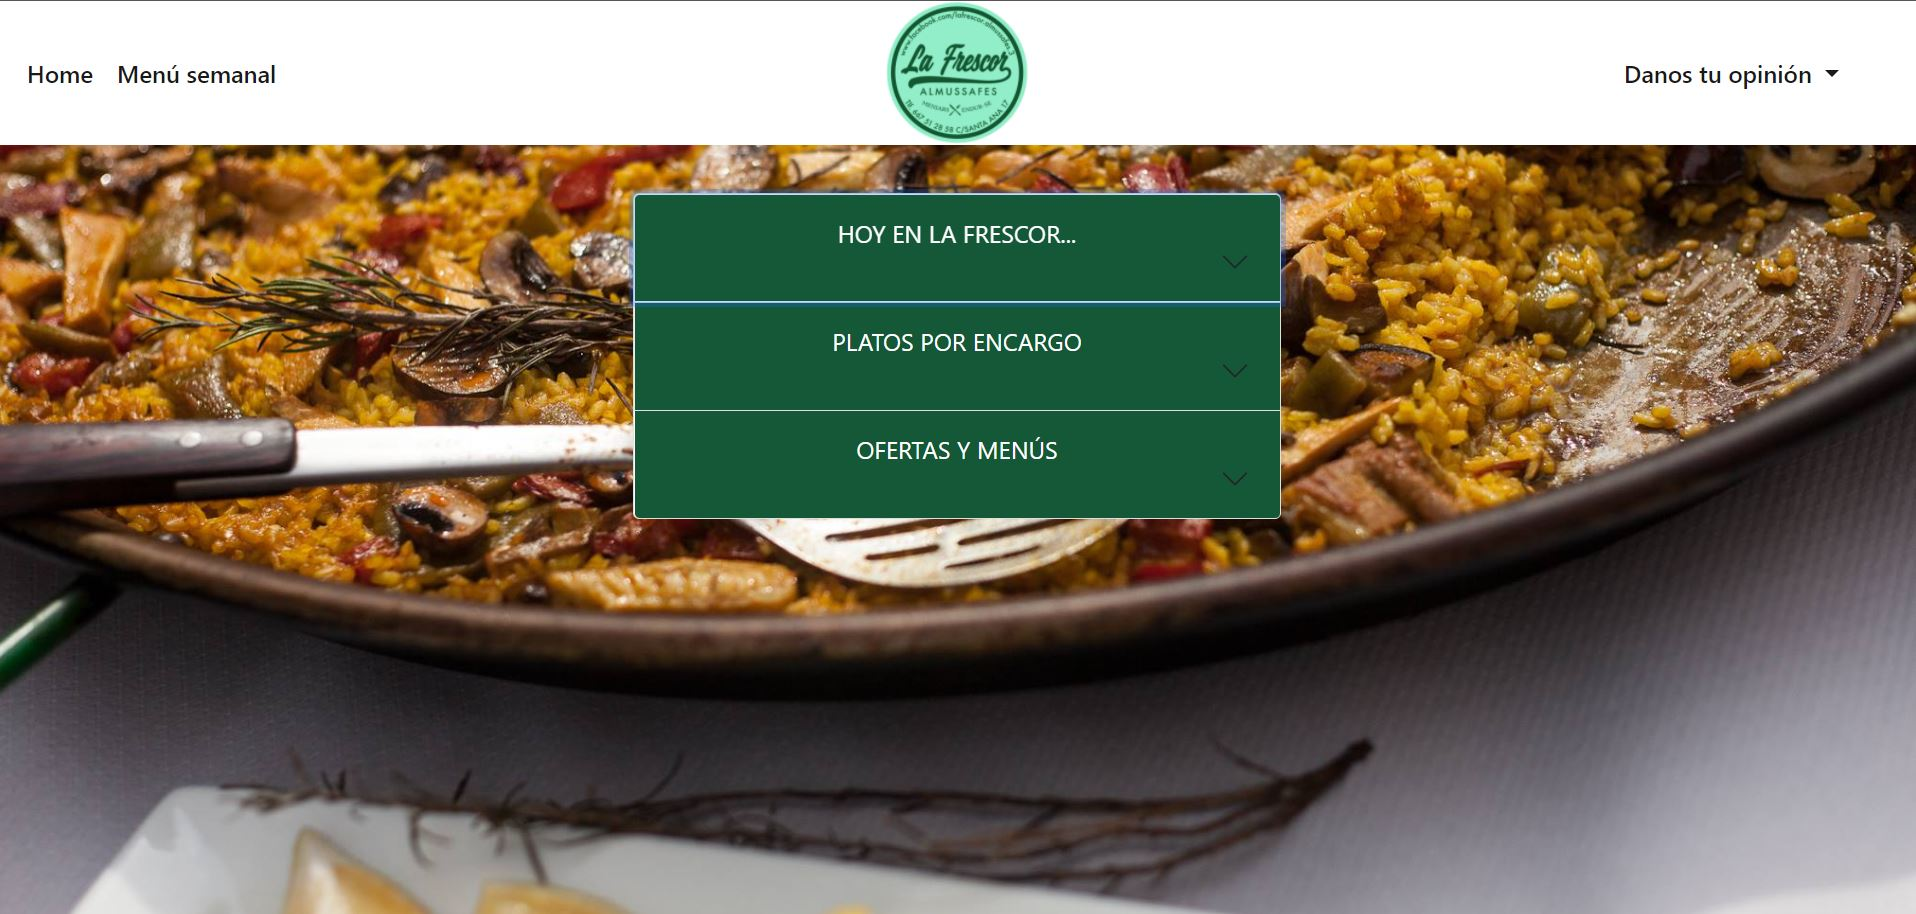
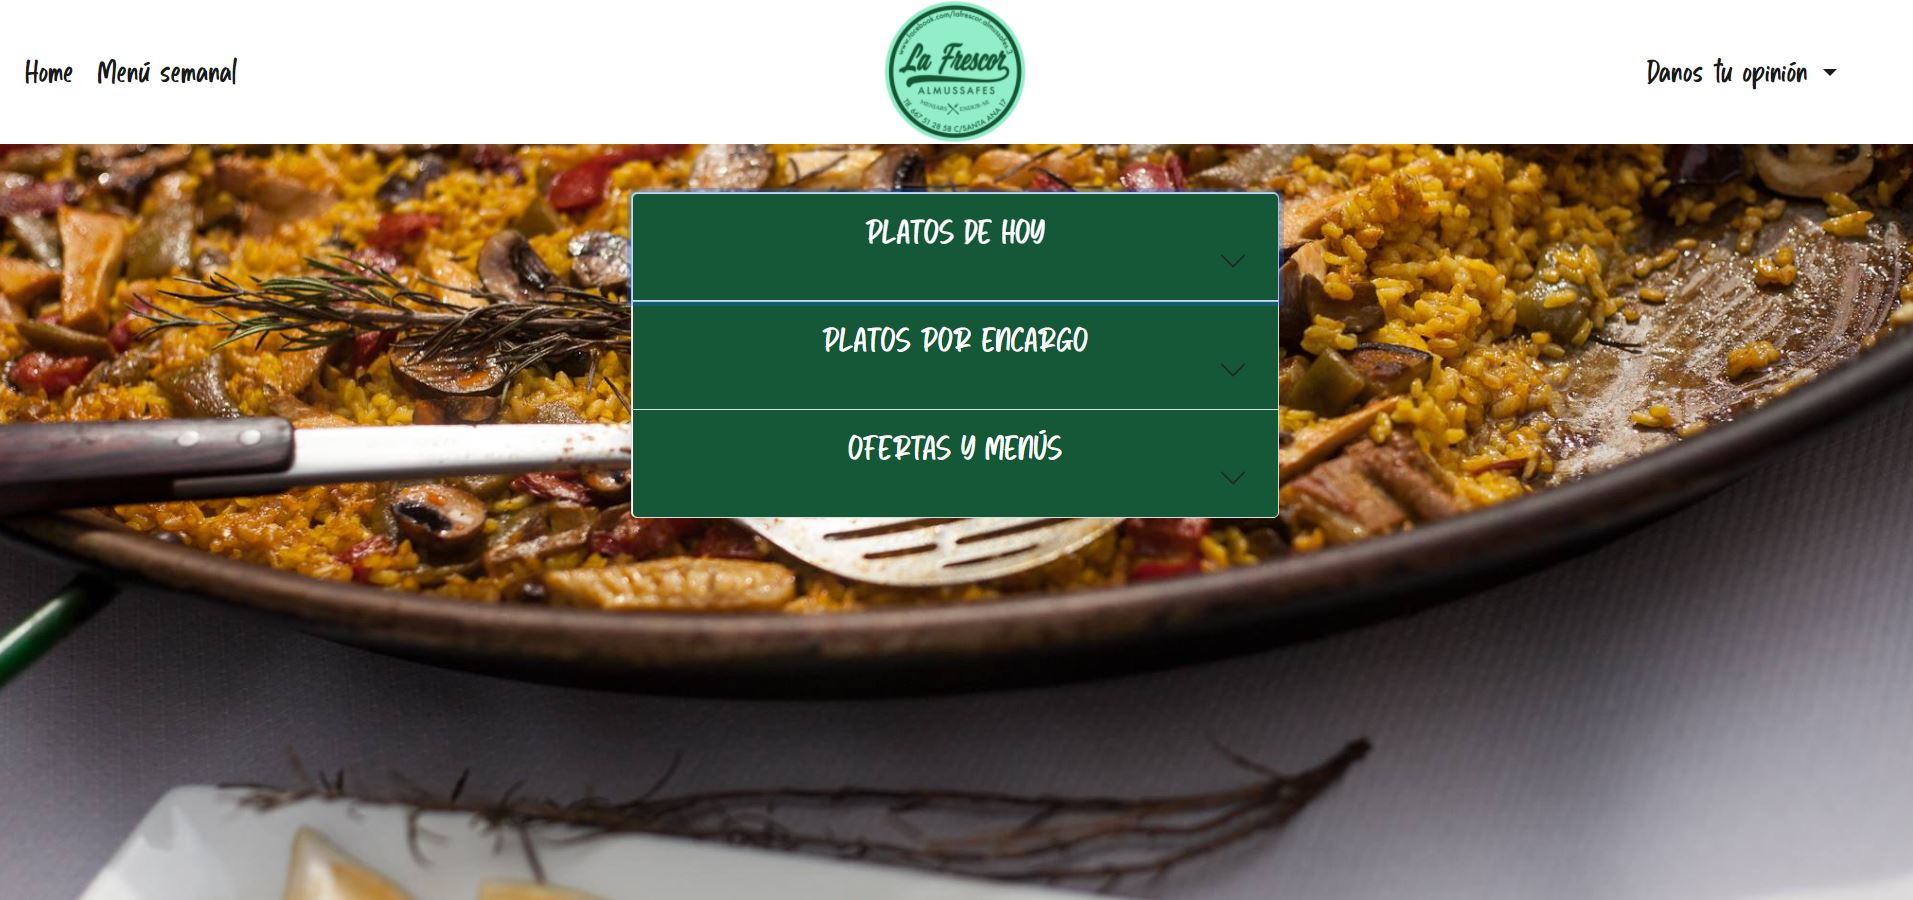
fonts added. Readme updated

diff --git a/menu.html b/menu.html
@@ -6,6 +6,7 @@
     <meta name="viewport" content="width=device-width, initial-scale=1.0">
     <title>Document</title>
     <link href="https://cdn.jsdelivr.net/npm/bootstrap@5.1.3/dist/css/bootstrap.min.css" rel="stylesheet" integrity="sha384-1BmE4kWBq78iYhFldvKuhfTAU6auU8tT94WrHftjDbrCEXSU1oBoqyl2QvZ6jIW3" crossorigin="anonymous">
+    <link href="http://fonts.cdnfonts.com/css/watterbite-personal-use" rel="stylesheet">
     <link href="css/styles.css" rel="stylesheet">
 </head>
 <body class="hideAll">
@@ -71,9 +72,9 @@
         <div class="card card-body ">
           <div class="cardContent d-flex">
             <div class="textCardContent">
-              <h5>Los Martes en la Frescor...</h5>
+              <h5>Los Martes en la Frescor</h5>
             <p><span id="arrozalhorno">Arroz al horno</span> <br>
-              <span id="paellaalbon">Paella de pollo, conejo y albóndigas</span><br>
+              <span id="paellaalbon">Paella de pollo conejo y albóndigas</span><br>
               <span id="fideuasenyoret">Fideuà "Del Senyoret"</span><br>
               <span id="macarronescarbonara">Macarrones carbonara</span><br>
               <span id="alitas">Alitas asadas con salsa barbacoa</span><br>
@@ -97,14 +98,14 @@
         <div class="card card-body ">
           <div class="cardContent d-flex">
             <div class="textCardContent">
-              <h5>Los Miércoles en la Frescor...</h5>
+              <h5>Los Miércoles en la Frescor</h5>
             <p><span id="paellaval">Paella Valenciana</span> <br>
               <span id="fideuaclasica">Fideuà clásica marinera</span><br>
-              <span id="espiralespesto">Espirales vegetales con verduras y crema de queso al pesto"</span><br>
+              <span id="espiralespesto">Espirales vegetales con verduras y crema de queso al pesto</span><br>
               <span id="guisopollo">Guiso de pollo con alcachofas</span><br>
               <span id="crema">Crema de marisco</span><br>
               <span id="bacalao">Bacalao al horno con tomate al ajillo</span><br>
-              <span id="ensaladapinya">Ensalada de piña, surimi y salsa rosa</span>
+              <span id="ensaladapinya">Ensalada de piña surimi y salsa rosa</span>
             </p>
             </div>
             <div>
@@ -123,7 +124,7 @@
         <div class="card card-body ">
           <div class="cardContent d-flex">
             <div class="textCardContent">
-              <h5>Los Jueves en la Frescor...</h5>
+              <h5>Los Jueves en la Frescor</h5>
             <p><span id="paellapollo">Paella de pollo y conejo</span> <br>
               <span id="fideuaboletus">Fideuà marinera con boletus</span><br>
               <span id="lasagna">Lasaña de carne"</span><br>
@@ -149,11 +150,11 @@
         <div class="card card-body ">
           <div class="cardContent d-flex">
             <div class="textCardContent">
-              <h5>Los Viernes en la Frescor...</h5>
+              <h5>Los Viernes en la Frescor</h5>
             <p><span id="arrozalhorno2">Arroz al horno</span> <br>
-              <span id="paellalbon2">Paella de pollo, conejo y albóndigas</span><br>
-              <span id="fideuaverdu">Fideuà marinera con verduras"</span><br>
-              <span id="espaguetis">Espaguetis con bacon, york y salsa de champiñones</span><br>
+              <span id="paellalbon2">Paella de pollo conejo y albóndigas</span><br>
+              <span id="fideuaverdu">Fideuà marinera con verduras</span><br>
+              <span id="espaguetis">Espaguetis con bacon york y salsa de champiñones</span><br>
               <span id="limanda">Filete de limanda gratinado con queso y cebollino</span><br>
               <span id="lomo">Cinta de lomo con salsa argentina</span><br>
               <span id="ensalada3">Ensalada de la casa</span>
@@ -175,7 +176,7 @@
         <div class="card card-body ">
           <div class="cardContent d-flex">
             <div class="textCardContent">
-              <h5>Los Sábados en la Frescor...</h5>
+              <h5>Los Sábados en la Frescor</h5>
             <p><span id="paellaval2">Paella Valenciana</span> <br>
               <span id="paellaverdu">Paella de verduras con escarola fresca</span><br>
               <span id="fideuachipi">Fideuà de chipirones y alcachofas"</span><br>

diff --git a/index.html b/index.html
@@ -6,6 +6,7 @@
     <meta name="viewport" content="width=device-width, initial-scale=1.0">
     <title>Document</title>
     <link href="https://cdn.jsdelivr.net/npm/bootstrap@5.1.3/dist/css/bootstrap.min.css" rel="stylesheet" integrity="sha384-1BmE4kWBq78iYhFldvKuhfTAU6auU8tT94WrHftjDbrCEXSU1oBoqyl2QvZ6jIW3" crossorigin="anonymous">
+    <link href="http://fonts.cdnfonts.com/css/watterbite-personal-use" rel="stylesheet">
     <link href="css/styles.css" rel="stylesheet">
 </head>
 <body class="hideAll">
@@ -51,7 +52,7 @@
               <div class="accordion-item">
                 <h2 class="accordion-header" id="headingOne">
                   <button class="accordion-button d-flex flex-column " id="platosDelDia" type="button" data-bs-toggle="collapse" data-bs-target="#collapseOne" aria-expanded="true" aria-controls="collapseOne">
-                    <div class="buttonText">HOY EN LA FRESCOR...</div>
+                    <div class="buttonText">PLATOS DE HOY</div>
                   </button>
                 </h2>
                 <div id="collapseOne" class="accordion-collapse collapse show" aria-labelledby="headingOne" data-bs-parent="#accordionExample">

diff --git a/css/styles.css b/css/styles.css
@@ -13,8 +13,9 @@ body {
     background-repeat: no-repeat;
     background-size: cover;
 
-    font-weight: 600;
-
+    /* font-weight: 600; */
+    font-family: 'Watterbite Personal Use', sans-serif;
+                                                
     
 }
 
@@ -142,7 +143,7 @@ body::-webkit-scrollbar {
     background-color: rgb(76,147,108);
     height: 25em;
     width: 20em;
-    border-style: solid;
+    border-style: solid;font-family: Verdana, Geneva, Tahoma, sans-serif;
 }
 
 .adress{

diff --git a/contact.html b/contact.html
@@ -6,6 +6,7 @@
     <meta name="viewport" content="width=device-width, initial-scale=1.0">
     <title>Document</title>
     <link href="https://cdn.jsdelivr.net/npm/bootstrap@5.1.3/dist/css/bootstrap.min.css" rel="stylesheet" integrity="sha384-1BmE4kWBq78iYhFldvKuhfTAU6auU8tT94WrHftjDbrCEXSU1oBoqyl2QvZ6jIW3" crossorigin="anonymous">
+    <link href="http://fonts.cdnfonts.com/css/watterbite-personal-use" rel="stylesheet">
     <link href="css/styles.css" rel="stylesheet">
 </head>
 <body>

diff --git a/README.md b/README.md
@@ -28,6 +28,13 @@ https://jmonloop.github.io/GeekshubsFSD_Ch2_foodWebsite/
 
 
 
+* Zoomable elements with footer description by using modal popovers
+
+![ScreenShot](https://raw.githubusercontent.com/jmonloop/GeekshubsFSD_Ch2_foodWebsite/master/assets/modal.JPG)
+
+
+
+
 * Hover images in weekly menus.
 
 ![ScreenShot](https://raw.githubusercontent.com/jmonloop/GeekshubsFSD_Ch2_foodWebsite/master/assets/menuHover.JPG)
